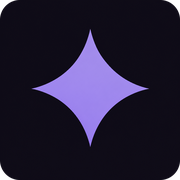
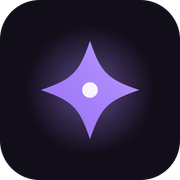
feat: 파비콘과 앱 아이콘을 브랜드 정본에서 받아 온다
아이콘이 브랜드의 별과 **다른 별**이었다. 오목한 정도가 달라 더 통통했고,
한가운데 흰 점이 없었으며, 그라데이션 없이 납작한 보라 한 색이었다.
머리띠의 별(StarMark)과 탭의 별이 같은 얼굴이 아니었다는 뜻이다.

이제 `brand/build.py` 가 굽는 `icon-dusk` 를 받는다 — 화면과 아이콘이 같은
좌표, 같은 보라(--primary → --primary-lit)에서 나온다. 한 벌인지는 사람이 아니라
루트의 `sh .claude/checks/star-path.sh` 가 센다.

  icon.png        512px  204KB → 51KB
  apple-icon.png  180px   28KB → 13KB

`src/assets/favicon-star-v2.png` 는 걷었다 — 1254px 864KB 짜리인데 부르는 곳이
한 군데도 없었다. `src/assets` 는 번들에 들어갈 수 있는 자리라, 안 쓰는 무거운
파일을 두면 언젠가 실려 나간다.

`lib/star.ts` 의 머리말이 «나눔 카드도 이 길을 쓴다» 고 적고 있었는데 og 카드는
글자만으로 서 있다 — 실제와 맞게 고쳤다.

diff --git a/src/lib/star.ts b/src/lib/star.ts
@@ -1,9 +1,12 @@
 /**
- * 브랜드의 별 — brand/symbol-*.svg 의 그 모양.
+ * 브랜드의 별 — `brand/symbol-*.svg` 의 그 모양.
  *
- * 이 길(path)을 화면([StarMark])과 나눔 카드([lib/og])가 함께 쓴다.
- * 같아야 하는 값은 **이름 하나**를 둘이 가리키게 한다 — 두 벌로 적어 두면
- * 별의 모양을 다듬는 날 한쪽만 다듬어진다.
+ * 이 길(path)은 화면([StarMark])이 쓰고, 파비콘·앱 아이콘은 같은 모양을 `brand` 가 굽는다.
+ * 이 저장소는 제 힘으로 서야 해서 그 값을 남의 저장소에서 받아 올 수 없다 —
+ * 그래서 **같은 값이 두 곳에 산다.** 두 벌은 곧 서로 달라지므로 기계가 센다:
+ * 루트에서 `sh .claude/checks/star-path.sh` (모양과 보라를 함께 본다).
+ *
+ * 고칠 일이 생기면 `brand/build.py` 를 먼저 고치고, 그것이 찍어 주는 길을 여기 옮긴다.
  */
 export const STAR_PATH =
   "M50 12 C58.36 36.624 63.376 41.64 88 50 C63.376 58.36 58.36 63.376 50 88 " +
